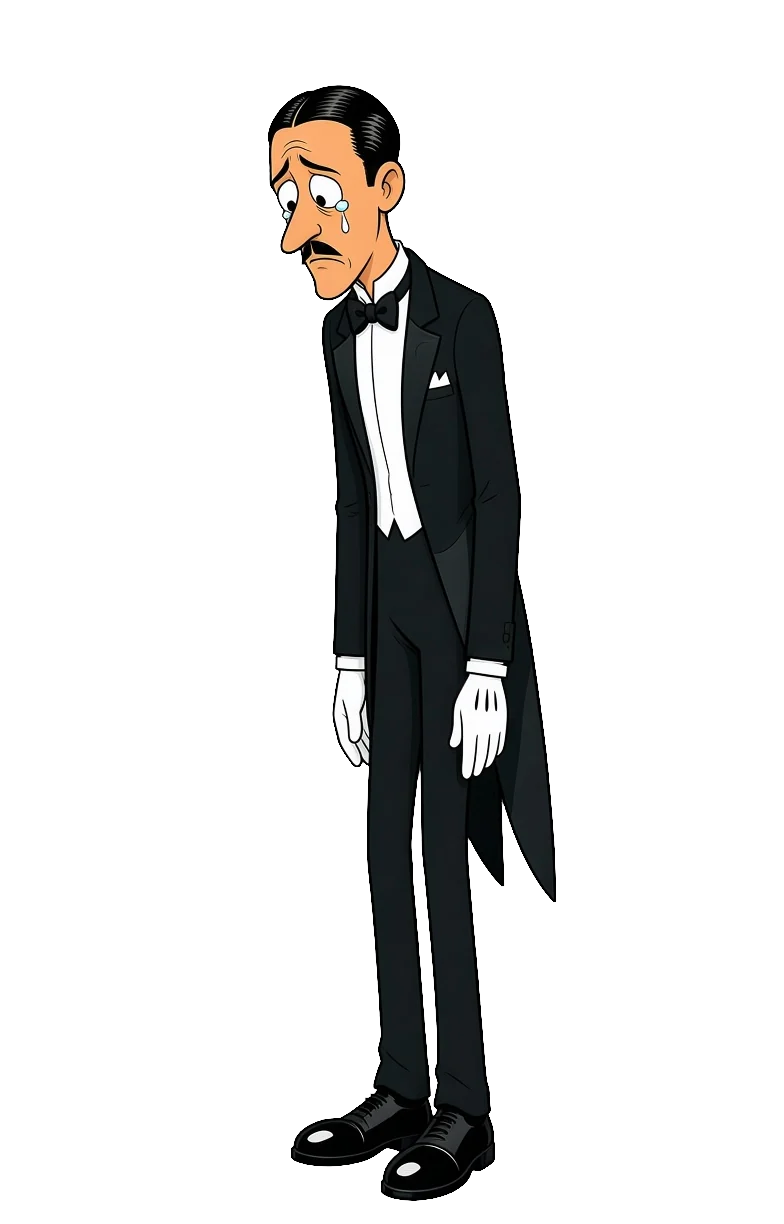
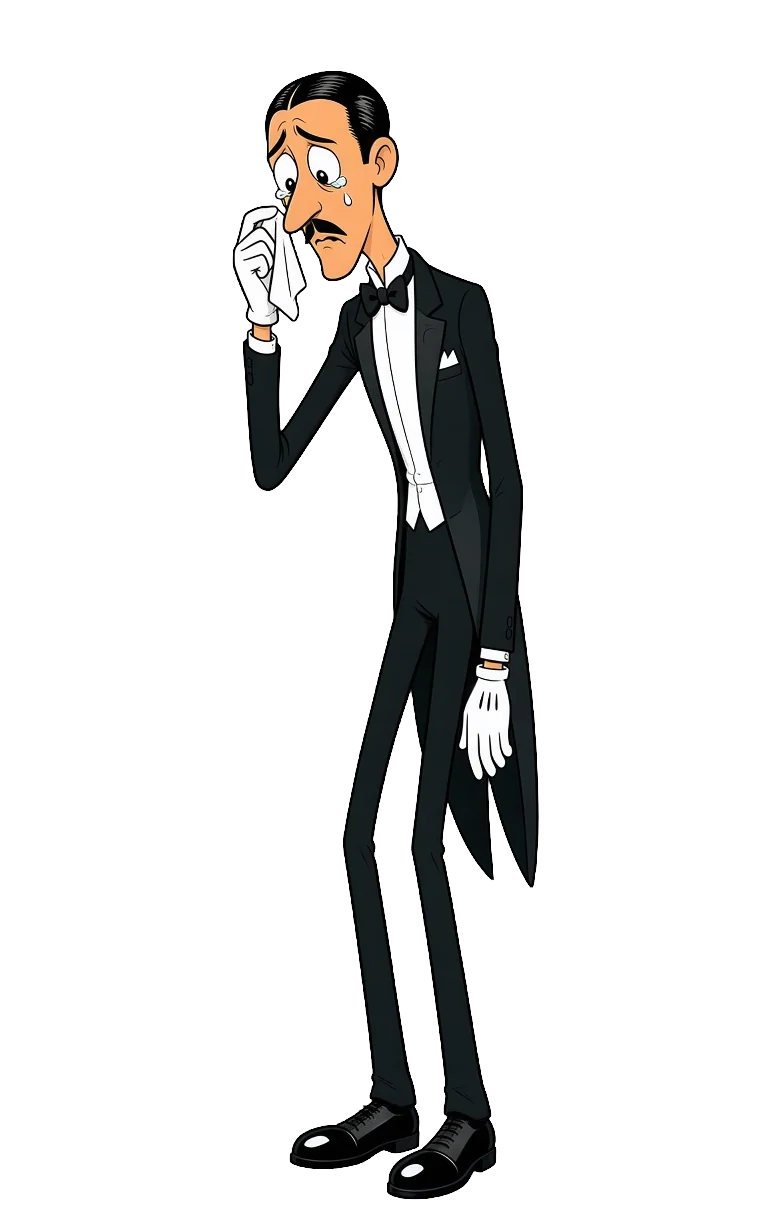
Polish-1: theatrical SAD poses for all four suspects, phone title layout clears the mansion, clearer painted manor portraits (base + lightning), bible log, preview (#20)

Changed region(s): [[0.2755, 0.031, 0.7347, 0.9935], [0.6122, 0.2484, 0.6429, 0.3105]]

diff --git a/components/game/TitleScreen.tsx b/components/game/TitleScreen.tsx
@@ -5,9 +5,10 @@ import { backdropStyle } from "./backdrop";
 import Image from "next/image";
 
 // Title card art: docs/ART_BIBLE.md §7.0 (assets/title/ -> /assets/title/ via sync:assets).
+// Phones (max-sm): tighter tagline + button and less bottom padding so the stack clears the mansion base.
 export function TitleScreen({ tagline, backdrop, onStart }: { tagline: string; backdrop?: string; onStart: () => void }) {
   return (
-    <main className="relative flex min-h-0 flex-1 flex-col items-center justify-between overflow-hidden bg-[#1b1035] bg-[url(/assets/title/title_bg.webp)] bg-cover bg-center px-6 py-[6vh] text-center" style={backdropStyle(backdrop)}>
+    <main className="relative flex min-h-0 flex-1 flex-col items-center justify-between overflow-hidden bg-[#1b1035] bg-[url(/assets/title/title_bg.webp)] bg-cover bg-center px-6 py-[6vh] text-center max-sm:pb-[3vh]" style={backdropStyle(backdrop)}>
       <div aria-hidden className="pointer-events-none absolute left-1/2 top-[22%] w-[130vmin] -translate-x-1/2 -translate-y-1/2">
         <motion.img
           src="/assets/title/sunburst.webp"
@@ -27,7 +28,7 @@ export function TitleScreen({ tagline, backdrop, onStart }: { tagline: string; b
       </motion.h1>
       <div className="relative flex flex-col items-center">
         <motion.p
-          className="relative max-w-xl rounded-2xl border-4 border-black bg-white px-6 py-3 text-lg font-bold text-black shadow-[6px_6px_0_#000] sm:text-xl"
+          className="relative max-w-xl rounded-2xl border-4 border-black bg-white px-6 py-3 text-lg font-bold text-black shadow-[6px_6px_0_#000] max-sm:max-w-80 max-sm:px-4 max-sm:py-2 max-sm:text-sm max-sm:shadow-[4px_4px_0_#000] sm:text-xl"
           initial={{ y: 40, opacity: 0 }}
           animate={{ y: 0, opacity: 1 }}
           transition={{ delay: 0.5, type: "spring", stiffness: 200 }}
@@ -37,7 +38,7 @@ export function TitleScreen({ tagline, backdrop, onStart }: { tagline: string; b
         <motion.button
           type="button"
           onClick={onStart}
-          className="relative mt-8 cursor-pointer rounded-full border-4 border-black bg-red-500 px-10 py-4 font-display text-3xl tracking-widest text-white shadow-[6px_6px_0_#000] hover:bg-red-400 active:translate-y-1 active:shadow-[2px_2px_0_#000]"
+          className="relative mt-8 cursor-pointer rounded-full border-4 border-black bg-red-500 px-10 py-4 font-display text-3xl tracking-widest text-white shadow-[6px_6px_0_#000] hover:bg-red-400 active:translate-y-1 active:shadow-[2px_2px_0_#000] max-sm:mt-5 max-sm:px-8 max-sm:py-3 max-sm:text-2xl"
           initial={{ opacity: 0, scale: 0.5 }}
           animate={{ opacity: 1, scale: [1, 1.08, 1] }}
           whileHover={{ rotate: [0, -3, 3, 0] }}

diff --git a/docs/ART_BIBLE.md b/docs/ART_BIBLE.md
@@ -73,7 +73,7 @@ Reginald, an original cartoon butler: a very tall, extremely thin, stick-like mi
 | nervous | `Pose: nervous — his whole posture collapses dramatically: knees bent and knocking, shoulders hunched, spine curved like a wilting noodle, big worried eyes darting, wobbly mouth, sweat drops flying off his head, dabbing his forehead with the tiny white handkerchief in one gloved hand.` |
 | shocked | `Pose: shocked — body stretched extra tall and rigid, eyes enormous and bulging, jaw dropped wide open, eyebrows shot up high, arms stiff and fingers splayed out.` |
 | smug | `Pose: smug — leaning back slightly with nose held high in the air, one eyebrow raised, half-lidded self-satisfied eyes, small tight smirk, one gloved hand resting on his lapel.` |
-| sad | `Pose: sad — drooping posture, shoulders slumped, head hung low, long arms dangling limply, eyebrows tilted up in the middle, glistening sad eyes, mouth turned down.` |
+| sad | `Pose: sad — theatrically, unmistakably sad at a glance: a heavy slump with the whole body sagging, drooping shoulders, head hanging forward and low, dabbing the corner of one eye with a tiny white handkerchief held in one white-gloved hand, the other long arm dangling limply, big watery glistening eyes brimming with tears, eyebrows tilted steeply up in the middle, trembling down-turned lower lip, a single tear rolling down his cheek. His mustache stays exactly as thin and neat as in the reference; same slicked hair and same black tailcoat.` |
 
 ---
 
@@ -111,7 +111,7 @@ Victoria, an original cartoon aristocratic widow: a tall, slender, elegant middl
 | nervous | `Pose: nervous — trying to stay composed but failing, fluttering her open fan rapidly in front of her face, eyes darting sideways, shoulders raised tensely, sweat drops flying off her head, knees pressed together.` |
 | shocked | `Pose: shocked — complete loss of composure: body stretched tall, both arms flung up in the air, her fan flying out of her hand, eyes enormous and bulging, mouth wide open, her updo coming loose with strands of hair springing out.` |
 | smug | `Pose: smug — very composed and superior, fan held open covering her mouth and nose, only her half-lidded self-satisfied eyes visible above it, one eyebrow arched, chin lifted, other hand on her hip.` |
-| sad | `Pose: sad — shoulders slumped gracefully, head bowed, eyes downcast and glistening, closed fan held against her chest with both gloved hands, eyebrows tilted up in the middle, mouth turned down.` |
+| sad | `Pose: sad — her composure breaking quietly: shoulders drooping, head bowed, the back of one gloved hand pressed to her brow in a theatrical gesture of sorrow, the other hand holding her fan lowered and CLOSED down at her side, big watery glistening eyes, eyebrows tilted up in the middle, trembling down-turned lower lip, a single tear on her cheek.` |
 
 ---
 
@@ -149,7 +149,7 @@ Archibald Crane, an original cartoon pompous businessman: a short, very wide, ro
 | nervous | `Pose: nervous — shrinking slightly, anxiously checking his gold pocket watch in one hand, tugging his tight collar with the other, sweat drops flying off his bald head, darting worried eyes, forced wobbly grin.` |
 | shocked | `Pose: shocked — jumping back with his round body stiff, eyes huge and bulging, jaw dropped, cigar falling out of his mouth, sideburns bristling, arms flung out, short legs off balance.` |
 | smug | `Pose: smug — leaning back with belly thrust forward, cigar tilted up jauntily, eyes half-lidded, big self-satisfied grin showing a gold tooth, thumbs in his waistcoat.` |
-| sad | `Pose: sad — deflated and sagging, belly drooping, shoulders slumped, cigar drooping down limply from his lip, eyebrows tilted up, mouth turned down, arms hanging at his sides.` |
+| sad | `Pose: sad — utterly deflated: his whole body sags, his huge belly droops low, shoulders slumped, head hanging, cigar drooping straight down limply from his lip, one hand holding open an EMPTY brown wallet upside down, the other hand pulling out a turned-out empty trouser pocket lining, big watery glistening eyes, huge eyebrows tilted steeply up in the middle, trembling down-turned lower lip, a single tear.` |
 
 ---
 
@@ -187,7 +187,7 @@ Gregory, an original cartoon gardener: a small, short, skinny hunched young man 
 | nervous | `Pose: nervous — shrinking and trembling, knees knocking together, clutching the shears tightly to his chest, huge frightened eyes darting sideways, sweat drops flying off his head, biting his lip.` |
 | shocked | `Pose: shocked — jolting upright in fright, his flat cap flying off his head, hair standing on end, eyes enormous and bulging, mouth wide open, arms flung up, shears flying from his hands.` |
 | smug | `Pose: smug — a rare sly little private grin, eyes half-lidded and knowing, one eyebrow raised, leaning on his closed pruning shears like a cane, other hand in his overall pocket.` |
-| sad | `Pose: sad — even more hunched and small, head hanging, big eyes glistening with tears, cap held in both hands against his chest, shears leaning against his leg, mouth turned down.` |
+| sad | `Pose: sad — shoulders hunched up high toward his ears, head hanging, bare-headed and anxiously twisting and wringing his flat cap in both hands in front of his chest, big watery glistening eyes brimming with tears, eyebrows tilted up in the middle, trembling down-turned lower lip, a single tear rolling down his cheek, garden shears leaning against his leg.` |
 
 ---
 
@@ -315,7 +315,7 @@ The opening screen should play like the title card of a 1940s theatrical cartoon
 | Background composition | The mansion is small and low: tower tops at ≈40% of frame height, with the hill across the bottom ≈45%. The upper-middle sky is kept open for the logo. A bent dead tree stands at the left and a lightning bolt with a broken fence at the right. The bolt is part of the painting (the title card has no separate flash frame; for a flash, briefly apply `filter: brightness(1.6) saturate(.5)` to the `<main>`). Grade: `grade(sat=0.92, hi=0.15, vig=0.35, center=(0.5, 0.5))`, a little livelier than the gameplay rooms |
 | Logo | Bangers (SIL OFL 1.1, see `assets/fonts/LICENSES.md`), drawn per letter by the share-image code (`toon-drafts/og/make_og.py → title()`), so it matches `app/opengraph-image.jpg`. Settings: size 330, 11 px→18 px black outline, yellow `#FFEC5A` → `#FFC428` → orange `#FF7618` gradient, plum-black `#12061C` drop shadow offset (16, 19), per-letter tilt `[-7, 4, -4, 5, -5, 3, -3, 4, 9, -5]°`, sine bounce ±20 px, whole word tilted 4° up to the right. The logo's I–T kerning is +14 (the OG image uses +6). The SVG has the same geometry but no glossy highlight stripe |
 | Sunburst | 28 alternating rays (14 lit) in `#FFBE46`, alpha 0.6×(1−r)^2.2, so they fade out before the frame edge. Place it centered behind the logo at ≈130vmin wide and rotate it slowly (one turn per 90 s) |
-| Screen layout (wired in `components/game/TitleScreen.tsx`) | `<main>`: `bg-[url(/assets/title/title_bg.webp)] bg-cover bg-center`, `justify-between`, `py-[6vh]`. Logo `<h1>` at the top (width `min(90vw, 1100px, 105vh)`, `alt="WHODUNIT?!"`). Sunburst centered at `top: 22%`. Tagline plus START button in a bottom group, sitting on the hill. Checked at 1920×1080, 1280×800 and 390×844 |
+| Screen layout (wired in `components/game/TitleScreen.tsx`) | `<main>`: `bg-[url(/assets/title/title_bg.webp)] bg-cover bg-center`, `justify-between`, `py-[6vh]`. Logo `<h1>` at the top (width `min(90vw, 1100px, 105vh)`, `alt="WHODUNIT?!"`). Sunburst centered at `top: 22%`. Tagline plus START button in a bottom group, sitting on the hill. Phones (`max-sm`, <640 px): tagline `text-sm px-4 py-2 max-w-80` with a 4 px shadow, button `text-2xl px-8 py-3 mt-5`, bottom padding `3vh`, so the group sits below the mansion's foundation instead of covering it (polish-1). `sm` and up are unchanged. Checked at 1920×1080, 1280×800 and 390×844 |
 | Iris transition (not shipped) | For an iris-out into the game, animate `clip-path: circle(R at 50% 50%)` from `R = 75vmax` to `0` on the outgoing screen over a black backdrop, 450–600 ms, `easeIn`, with a slide-whistle-down SFX. That needs no bitmap, which is why there's no PNG mask |
 | Mock | `docs/art/title_mock.jpg`: real screenshots of the running production build, plus the individual assets |
 
@@ -349,8 +349,8 @@ Scene: a grand old mansion library at night during a storm. A tall arched window
 | Field | Value |
 |---|---|
 | Files | `assets/backgrounds/manor.webp` (1920×1080, q85, ~176 KB), `assets/backgrounds/manor_lightning.webp` (1920×1080, q85, ~242 KB), `assets/backgrounds/manor_window_mask.webp` (1920×1080 alpha, glass only, lossless ~13 KB) |
-| Masters | `toon-drafts/backgrounds/raw/manor_2560x1440.png`, `manor_lightning_2560x1440.png` (+ `_1920x1080.png` lossless), `manor_window_mask.png` |
-| Contents | Same mansion as the library. A sweeping staircase with a carved banister rises on the right to a back gallery landing. A tall arched storm window sits above the landing (upper center-left; rain, no bolt at rest). An unlit crystal chandelier hangs top center-right. Gilt-framed portraits are darkened so their faces are unreadable smudges (left wall, right wall, and a small one on the landing). Oxblood curtains, plum walls, wainscoting, a marble side table with an amber lamp (far left), a potted palm, a grandfather clock (far right), a worn checkerboard marble floor with an oxblood runner, and two amber floor pools |
+| Masters | `toon-drafts/backgrounds/raw/manor_p1_2560x1440.png`, `manor_lightning_p1_2560x1440.png` (+ `_p1_1920x1080.png` lossless; the pre-polish `manor_*` files without `_p1` are the v0.1 masters), `manor_window_mask.png` (unchanged) |
+| Contents | Same mansion as the library. A sweeping staircase with a carved banister rises on the right to a back gallery landing. A tall arched storm window sits above the landing (upper center-left; rain, no bolt at rest). An unlit crystal chandelier hangs top center-right. Three gilt-framed portraits (left wall, right wall, and a small one on the landing) hold dim, painted, stern ancestors: generic, original sitters in the old umber/ochre palette, readable but still sunk in the gloom (repainted in polish-1; before that they were faceless smudges). Oxblood curtains, plum walls, wainscoting, a marble side table with an amber lamp (far left), a potted palm, a grandfather clock (far right), a worn checkerboard marble floor with an oxblood runner, and two amber floor pools |
 | Window region | x 35.1–47.1%, y 1.8–44.4% of frame (center ≈ 41%, 23%). This is the anchor for the `lightning` effect overlay in this room |
 | Rain layer / lightning swap | Same recipe as §7.1, using `manor_window_mask.webp` and `manor_lightning.webp`. The mask excludes the landing balusters and most of the mullions |
 | Screen fit (actual app) | `SuspectSelect` renders a header plus four cream cards (`grid-cols-2 lg:grid-cols-4`, `max-w-6xl`). Sprites sit inside the cards, so this background is a **backdrop, not a stage**: at 1920×1080 the cards cover roughly y 13–50% and x 20–80%. The composition puts the window and chandelier behind the "PICK A SUSPECT!" header, the portraits, lamp and clock flanking the cards, and the empty lit floor below them. Use it as `bg-[#1b1035] bg-[url(/assets/backgrounds/manor.webp)] bg-cover bg-center` on the `<main>`. It needs no dark overlay: the cards and the yellow header read on it as-is (checked at 1920×1080, 1280×800 and 390×844) |
@@ -428,3 +428,14 @@ Non-neutral poses use the xAI image edit endpoint with that character's approved
 - Bolt removal: 2 edits. Chose v1 (mean diff 4.7/255, zero shift, edge correlation 0.85 mean / 0.62 min). Only the window glass was composited back (feathered diff mask limited to the arch), so the rest of the frame is the untouched base.
 - Lightning: 2 edits. Chose v2 (visible bolt, window-mullion shadows thrown across the floor, zero shift), which matches the library lightning frame.
 - Graded with `grade.py` (same settings as the library; the lightning frame uses the lighter grade). Window mask: blue-sky pixel classifier clipped to the measured arch. Build script: `toon-drafts/backgrounds/manor_build.py`; mock: `manor_mock.py`.
+
+### Polish-1 (sad poses, mobile title, manor portraits)
+- **SAD, all four, redone** (v0.1 sad read too close to neutral). §4 sad pose lines rewritten to be theatrical (heavy slump, drooping shoulders, hanging head, watery eyes, trembling lip, single tear, plus a prop beat per character). Same pipeline: `tools/gen.py` edit with the neutral REF, locked style/avoid/description, face-left line, `grok-imagine-image-2.0`. Packed by `tools/pack_sad_p1.py`, which uses each character's existing scale from `characters/scale_report.json` (R 1.0, V 0.9115, A 0.8583, G 0.6893), 784×1224, feet y=1200, x=392 via the pack_v2 bottom-10% feet center. Repo webp q86 / alpha q90 / method 6. Old masters kept in `toon-drafts/raw/old_sad_v01/`.
+  - Reginald: 9 candidates → **p1v9**. v1–v8 all thickened the mustache into a chevron or droopy walrus (v1/v2 with no extra wording; v3–v5 with "not bushy"; v6–v8 with "tiny pencil line"). v9 keeps the thin curled pencil mustache. He dabs his eye with the handkerchief, a tear falls, and his head is bowed. His slump is milder than asked (the edit endpoint holds his upright REF posture).
+  - Victoria: 5 → **p1v5**. v1–v3 lowered the fan but left it OPEN; v4 was half-open; v5 has it shut, with a gloved hand at her brow and a tear.
+  - Archibald: 4 → **p1v3**. Head sunk, cigar drooping, empty wallet in one hand and a turned-out pocket in the other. v4 was nearly as good but the cigar tilted up.
+  - Gregory: 4 → **p1v1**. He wrings his cap, with watery eyes and a tear. v3/v4 invented a grey rag. The shears are dropped in the new pose.
+  - Anchors: **archibald.sad and gregory.sad updated** (the head moved). Reginald and Victoria sad are unchanged: their json points still land on the head (auto re-detect within ≈10 px for Victoria; Reginald's handkerchief confuses the auto-detector, but the existing points are visually correct).
+- **Title 390×844**: phone-only (`max-sm`) tightening of the tagline, button and bottom padding in `TitleScreen.tsx`, so the tagline no longer covers the mansion base. No asset changes. Desktop screenshots at 1280×800 and 1920×1080 are pixel-identical before and after.
+- **Manor portraits**: each portrait crop (2×/4× upscaled from `raw/manor_BASE_nobolt.png`) went through the xAI edit with a "same sitter, clearer, stern anonymous ancestor, muted old palette, no text" instruction. Left: 2 candidates → v2. Right: 2 → v1. Landing: 5 → v4 (v1/v2 looked like a glamorous film star, so the prompt was re-worded to a plain stern matron). Only the canvas-interior polygons were composited back (5 px erode, 2.5 px feather), onto the pre-grade base AND the lightning base. The lightning copy got a per-portrait 3×3+offset colour fit (base→lightning) so the flash doesn't pop. Then the same `grade()` + q85 export as v0.1. Changed pixels are confined to the three canvases (1920 frame bbox x 83–1723, y 86–471; frames, curtain and window untouched), so `manor_window_mask.webp` is unchanged. Script: `toon-drafts/backgrounds/portraits/apply.py`.
+- Preview: `docs/art/polish1_preview.jpg`.
